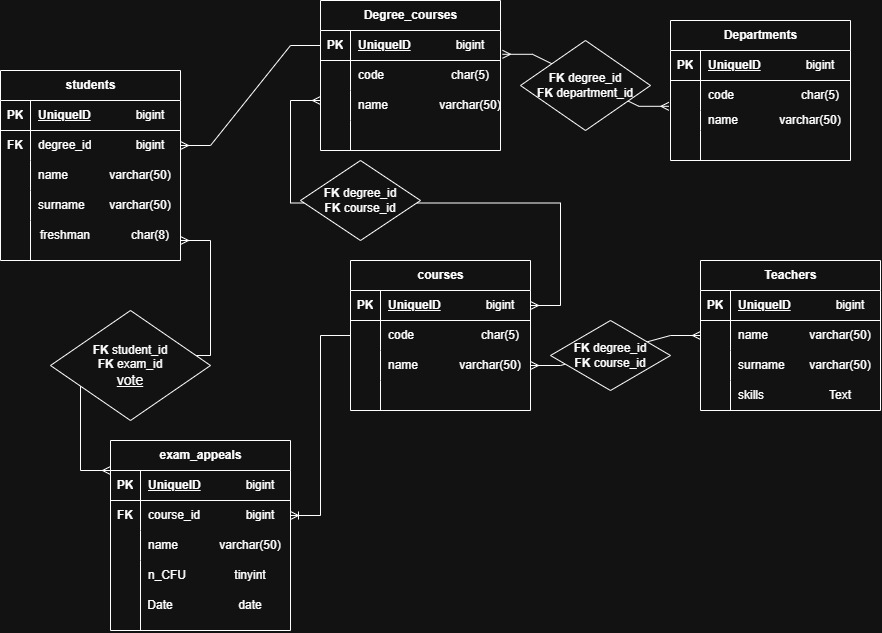
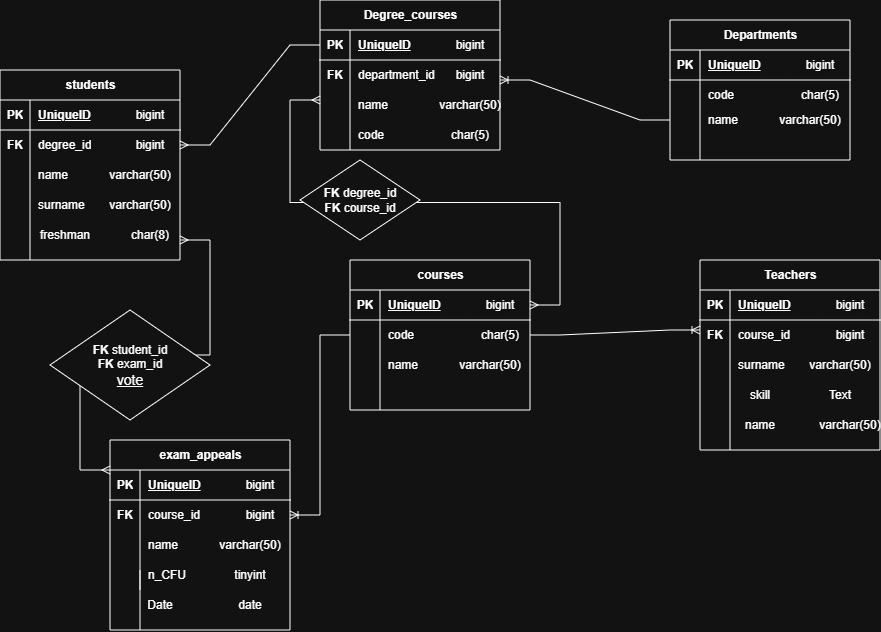
refactoring: cambiate relazioni tra alcune entità del DB

diff --git a/index.html b/index.html
@@ -22,15 +22,14 @@
         <tr>
           <td>Departments</td>
           <td>Degree_courses</td>
-          <td>Many to Many</td>
+          <td>One to Many</td>
           <td>
             un dipartimento può avere più corsi di laurea, un corso di laurea
-            pùò appartenere a più dipartimenti
+            pùò appartenere solo a un dipartimento
           </td>
           <td>
-            corso di laurea in Biotecnologie / Bioinformatica uniscono il
-            Dipartimento di Bioscienze/Medicina con il Dipartimento di
-            Informatica o Ingegneria.
+            corso di laurea in ingegneria informatica è un corso di laurea solo
+            per il dipartimento di ingegneria
           </td>
         </tr>
         <tr>
@@ -49,14 +48,14 @@
         <tr>
           <td>courses</td>
           <td>teachers</td>
-          <td>Many to Many</td>
+          <td>One to Many</td>
           <td>
-            un corso pùo avere più insegnanti, un insegnanete può insegnare in
-            più corsi
+            un corso pùo avere più insegnanti, ma un insegnanete non può
+            insegnare in più corsi
           </td>
           <td>
-            Mario con competenze in matematica può insegnare sia nel corso di
-            analisi I che nel corso di analisi II anche con altri insegnanti
+            Mario insieme ad altri insegnanti sono docenti del corso di analisi
+            2 e non possono insegnare in altri corsi
           </td>
         </tr>
         <tr>
